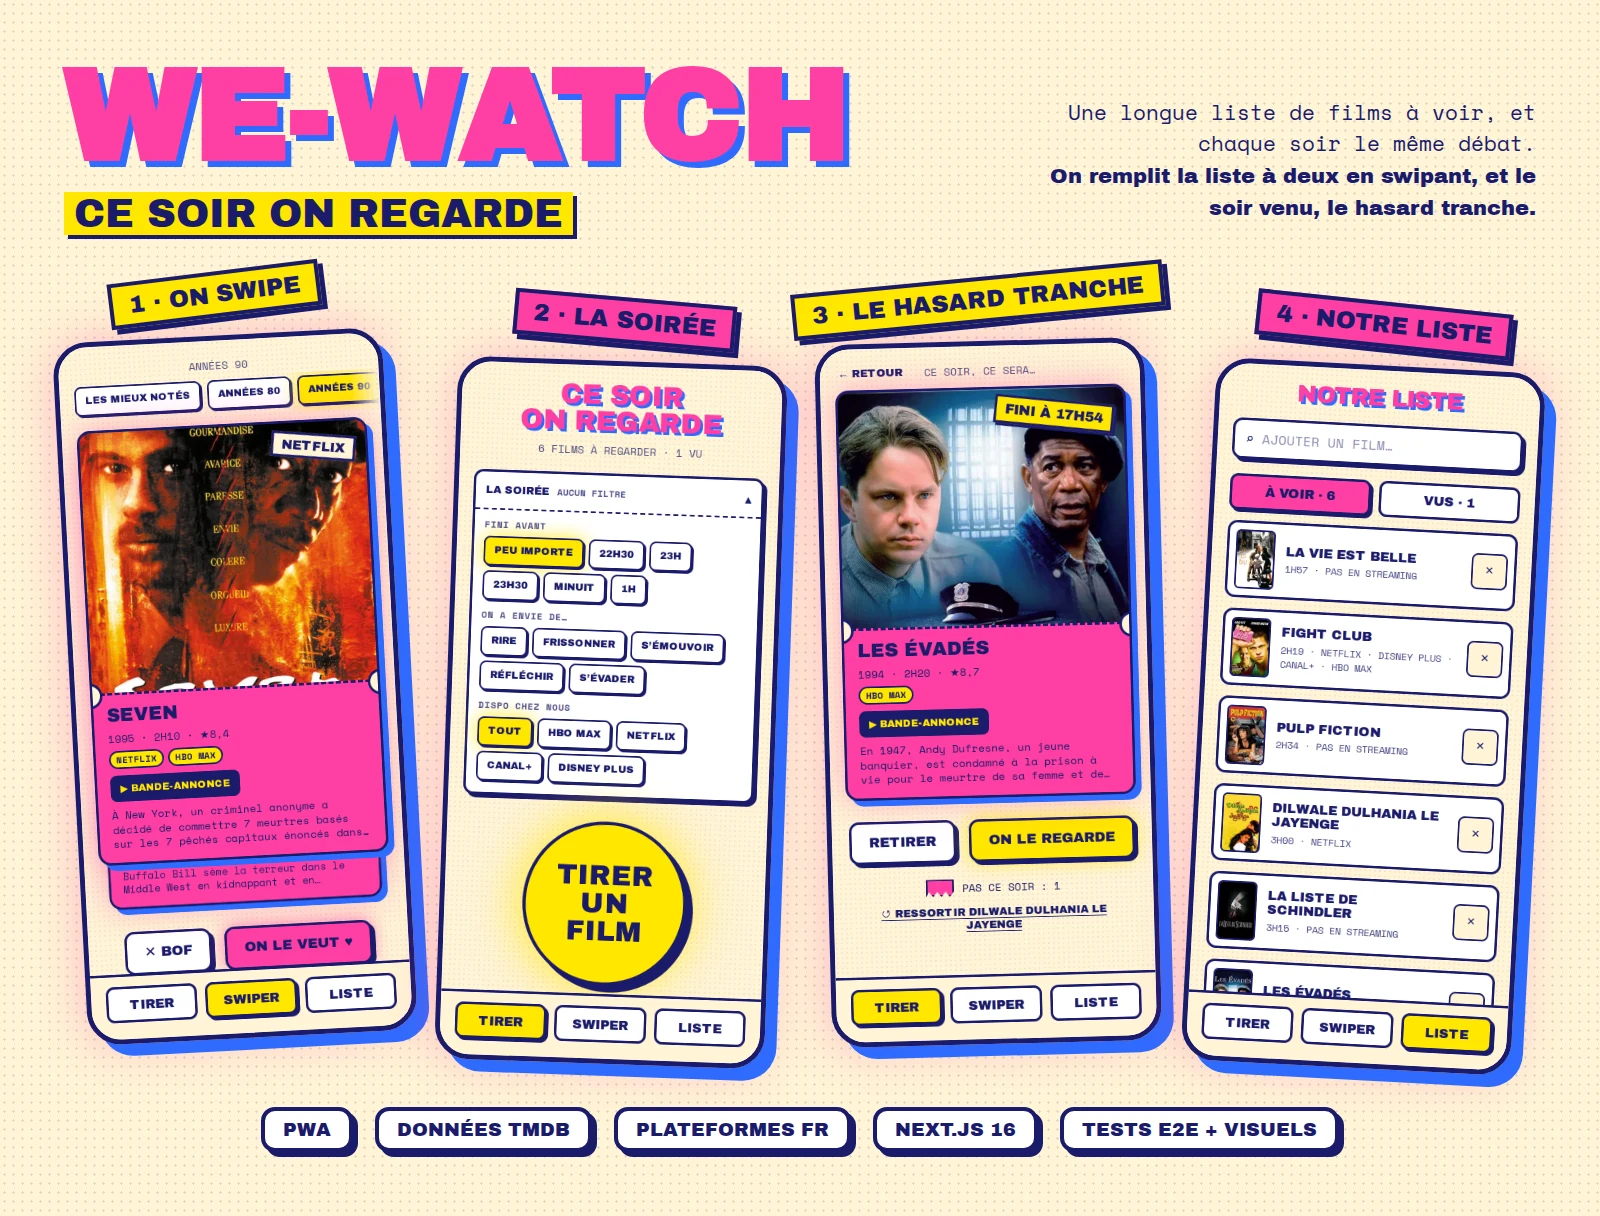
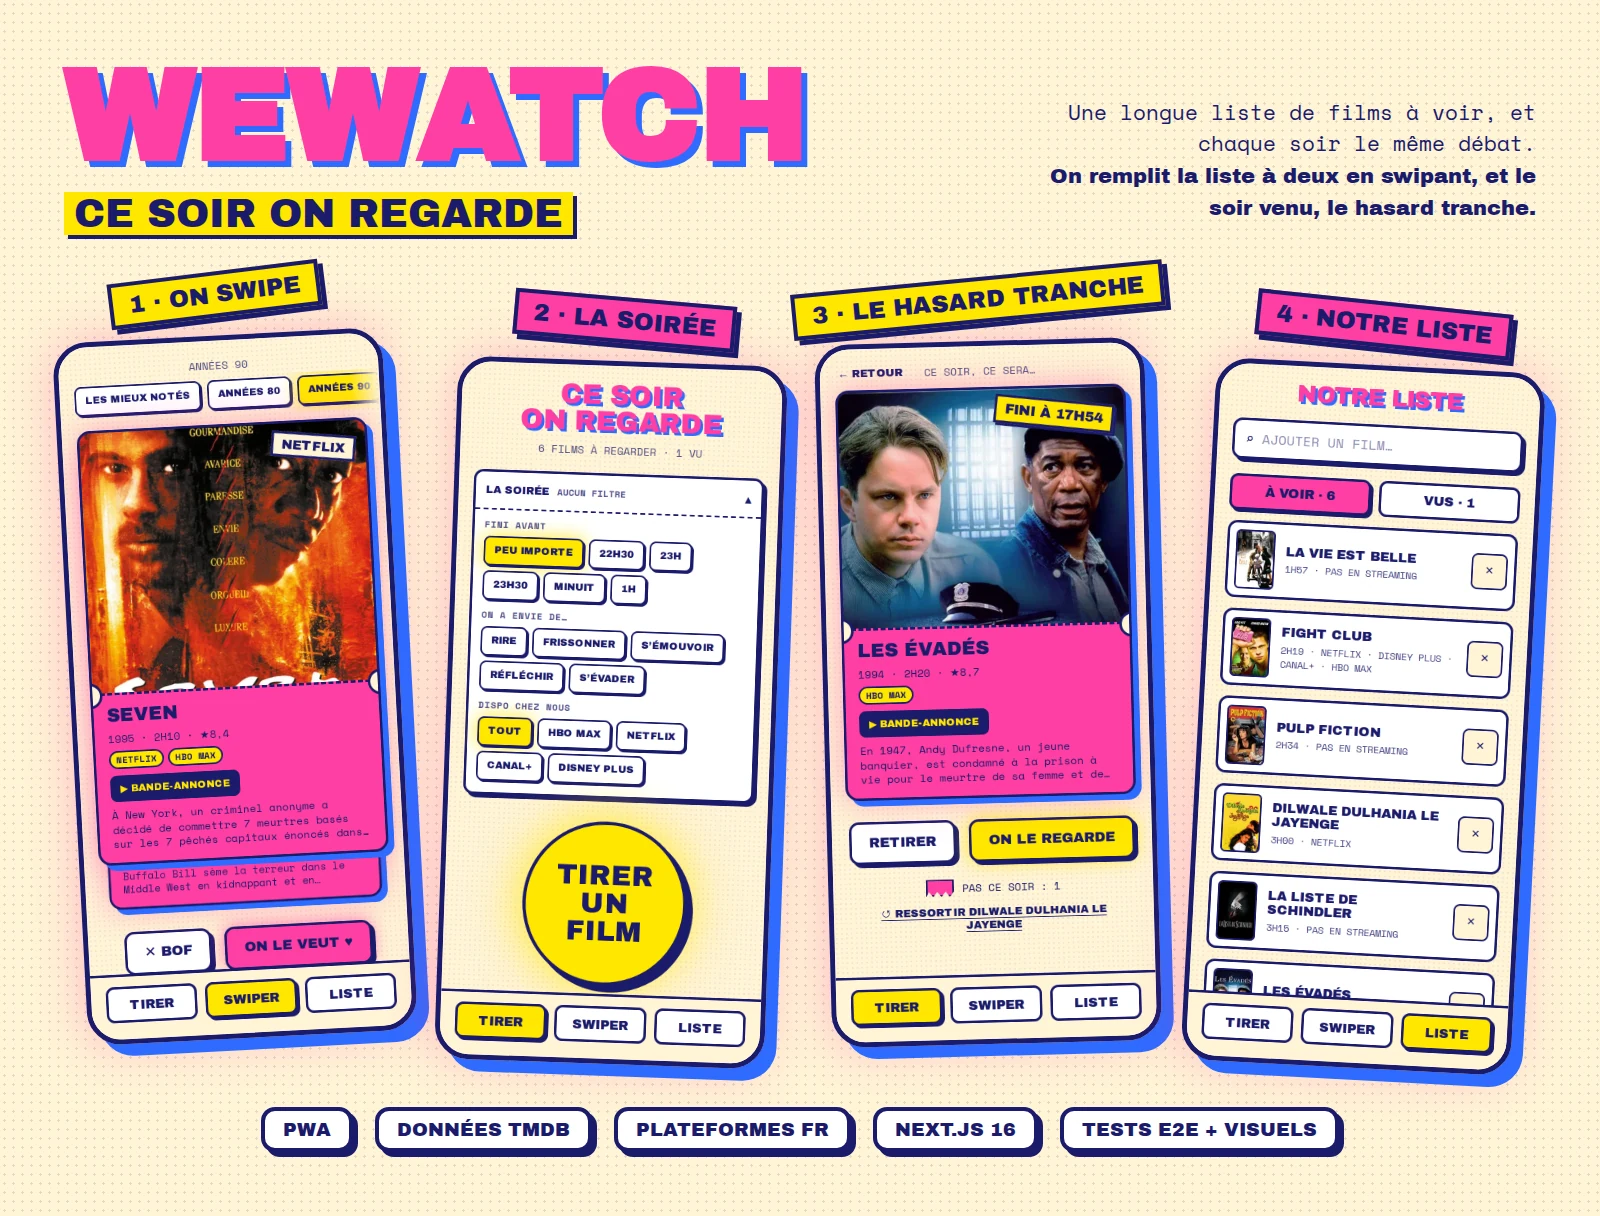
feat(brand): name the app WeWatch

Changed region(s): [[0.1562, 0.0312, 0.5312, 0.1562]]

diff --git a/src/app/unlock/page.tsx b/src/app/unlock/page.tsx
@@ -1,7 +1,8 @@
 import type { Metadata } from "next";
+import { APP_NAME } from "@/features/pwa/brand";
 import { UnlockScreen } from "@/features/unlock/UnlockScreen";
 
-export const metadata: Metadata = { title: "Entrer · we-watch" };
+export const metadata: Metadata = { title: `Entrer · ${APP_NAME}` };
 
 export default function UnlockPage() {
   return <UnlockScreen />;

diff --git a/src/features/pwa/brand.ts b/src/features/pwa/brand.ts
@@ -10,5 +10,5 @@ export const BRAND = {
   blue: "#2f6bff",
 } as const;
 
-export const APP_NAME = "we-watch";
+export const APP_NAME = "WeWatch";
 export const APP_DESCRIPTION = "Swipe des films, tirage de la soirée";

diff --git a/README.md b/README.md
@@ -1,5 +1,5 @@
 <p align="center">
-  <img src="docs/readme/poster.webp" alt="we-watch : on swipe des films à deux, le soir le hasard tranche" width="100%">
+  <img src="docs/readme/poster.webp" alt="WeWatch : on swipe des films à deux, le soir le hasard tranche" width="100%">
 </p>
 
 <p align="center">
@@ -10,9 +10,9 @@
   <a href="LICENSE"><img src="https://img.shields.io/badge/licence-MIT-2f6bff" alt="Licence MIT"></a>
 </p>
 
-# we-watch
+# WeWatch
 
-**Une longue liste de films à voir, et chaque soir le même débat.** we-watch sépare les deux moments : on remplit la liste à deux, tranquillement, en swipant des films ; le soir venu, un bouton, un film, et c'est le hasard qui tranche.
+**Une longue liste de films à voir, et chaque soir le même débat.** WeWatch sépare les deux moments : on remplit la liste à deux, tranquillement, en swipant des films ; le soir venu, un bouton, un film, et c'est le hasard qui tranche.
 
 Une petite appli web pour un couple (ou une coloc, ou une bande d'amis), installable sur l'écran d'accueil du téléphone, gratuite à héberger, en français, et volontairement joyeuse : direction artistique « ticket d'entrée », riso fluo.
 
@@ -58,7 +58,7 @@ npm run dev                  # http://localhost:3000
 
 L'appli demande alors le code d'accès choisi dans `ACCESS_CODE`, puis s'ouvre sur TIRER : la liste est vide, direction SWIPER.
 
-## Héberger votre propre we-watch
+## Héberger votre propre WeWatch
 
 Tout tient dans les offres gratuites de **Vercel** (l'appli), **Turso** (la base SQLite) et **GitHub Actions** (tests et déploiement). Le déploiement passe uniquement par GitHub Actions : chaque push sur `main` est testé, puis la base est sauvegardée et migrée, la nouvelle version mise en ligne, vérifiée, et retirée automatiquement si la vérification échoue.
 

diff --git a/docs/superpowers/specs/2026-10-23-we-watch-design.md b/docs/superpowers/specs/2026-10-23-we-watch-design.md
@@ -277,3 +277,4 @@ Semver calculé depuis les commits (Conventional Commits) par release-please : `
 - **V1.3.2** (2026-10-28), trouvés en testant l'appli comme une utilisatrice :
   - TIRER restait figé sur son dernier écran (ticket d'un film déjà vu, boutons morts ; ou « RIEN À TIRER » avec une liste remplie) quand la liste changeait pendant qu'on était sur une autre page. Cause : Next garde la page en mémoire, endormie, et l'animation de sortie lancée là ne finit jamais. Hors écran, les vues se remplacent désormais sans animation.
   - Les titres et résumés TMDB perdent leurs marques de direction invisibles (U+200E…) ; les films déjà en base sont nettoyés par le rafraîchissement quotidien.
+- L'appli s'appelle désormais **WeWatch** (titre, écran d'accueil, PWA) ; « we-watch » reste le nom technique (dépôt, paquet).

diff --git a/CLAUDE.md b/CLAUDE.md
@@ -1,6 +1,6 @@
 @AGENTS.md
 
-# we-watch
+# WeWatch
 
 Appli pour un couple : on swipe des films TMDB dans une liste « à voir », puis le soir un tirage au sort choisit le film (avec filtres « ce soir » : heure de coucher, humeur, plateformes). PWA installable (iPhone, Android, ordinateur), protégée par un code d'accès partagé, sans comptes. Pas un produit commercial (licences TMDB / Vercel Hobby non commerciales).
 
